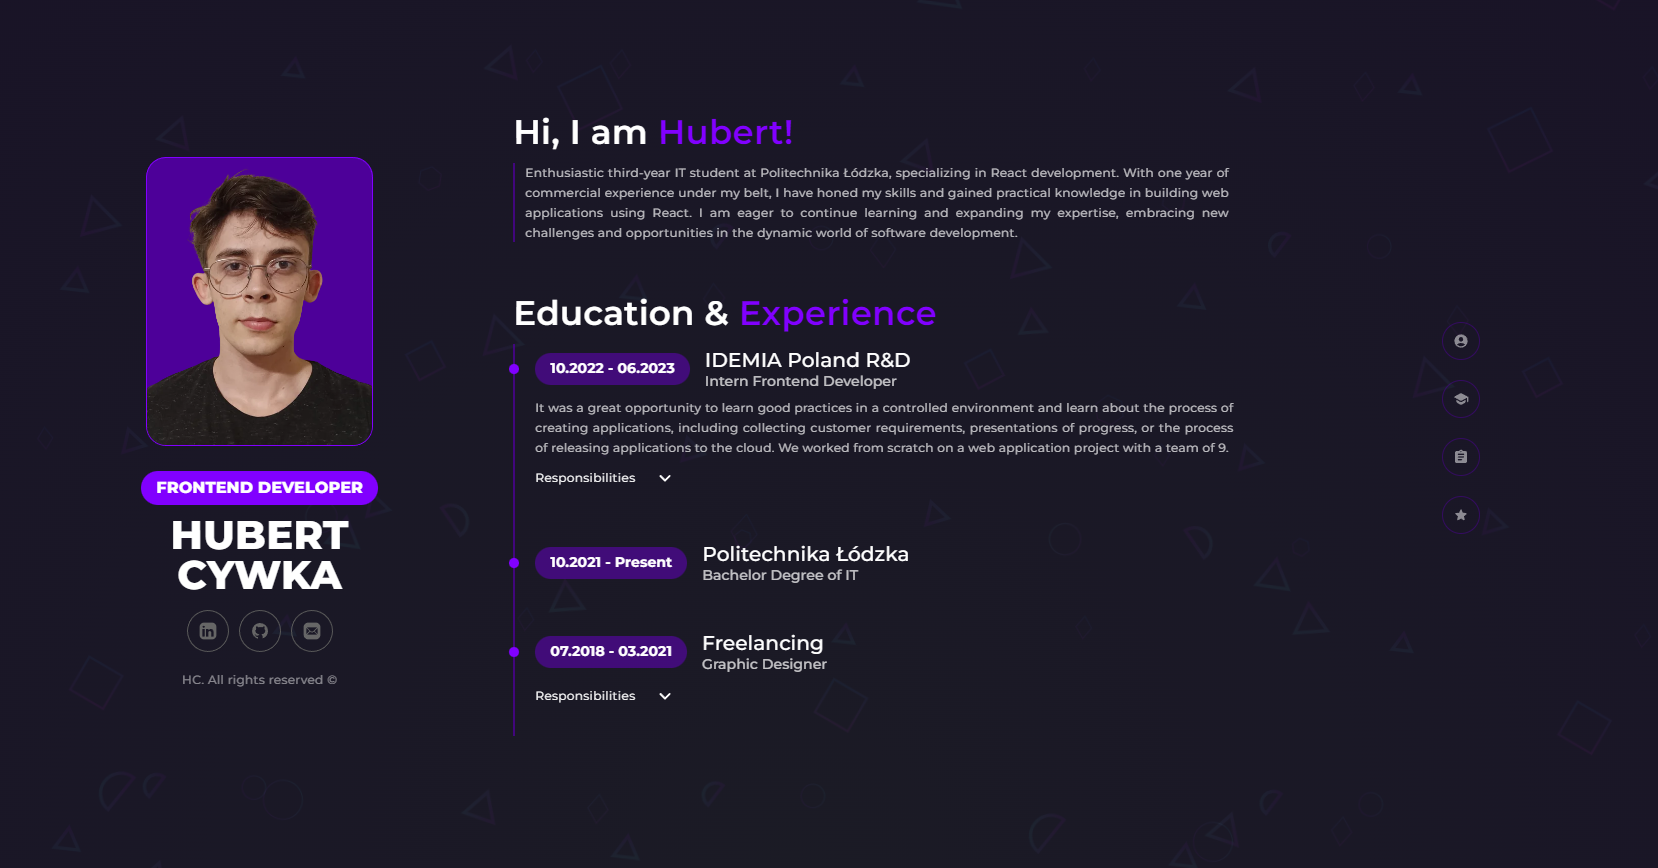
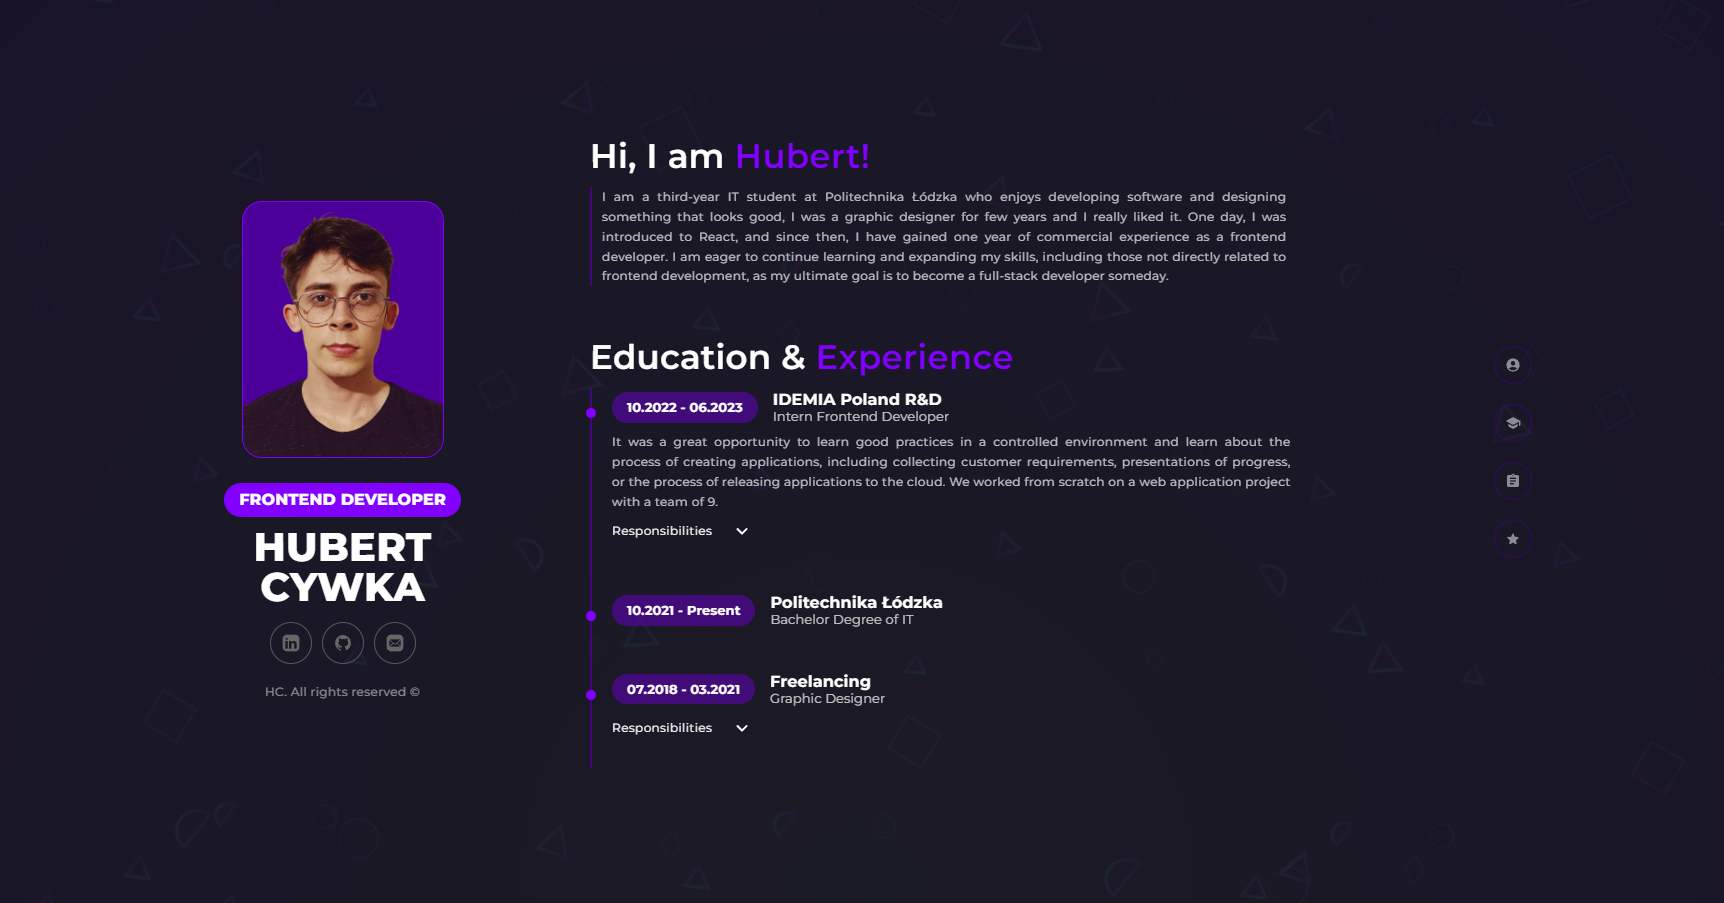
P-41: Improved font consistency

diff --git a/src/shared/constants/Me.tsx b/src/shared/constants/Me.tsx
@@ -7,5 +7,5 @@ export const ME: Developer = {
   picture: 'me.webp',
   contacts: CONTACTS,
   about:
-    'Enthusiastic third-year IT student at Politechnika Łódzka, specializing in React development. With one year of commercial experience under my belt, I have honed my skills and gained practical knowledge in building web applications using React. I am eager to continue learning and expanding my expertise, embracing new challenges and opportunities in the dynamic world of software development.'
+    'I am a third-year IT student at Politechnika Łódzka who enjoys developing software and designing something that looks good, I was a graphic designer for few years and I really liked it. One day, I was introduced to React, and since then, I have gained one year of commercial experience as a frontend developer. I am eager to continue learning and expanding my skills, including those not directly related to frontend development, as my ultimate goal is to become a full-stack developer someday.'
 };

diff --git a/src/components/content/experience/experience-list/experience-info/ExperienceInfo.tsx b/src/components/content/experience/experience-list/experience-info/ExperienceInfo.tsx
@@ -23,12 +23,8 @@ const ExperienceInfo = ({
       <Box className="experience-header">
         <Typography variant="subtitle2" className="date">{`${since} - ${to}`}</Typography>
         <Box>
-          <Typography variant="h6" className="company-name">
-            {companyName}
-          </Typography>
-          <Typography variant="subtitle2" className="position">
-            {position}
-          </Typography>
+          <Typography className="company-name">{companyName}</Typography>
+          <Typography className="position">{position}</Typography>
         </Box>
       </Box>
       {description?.length && (

diff --git a/src/components/content/experience/experience-list/experience-info/ExperienceInfo.scss b/src/components/content/experience/experience-list/experience-info/ExperienceInfo.scss
@@ -19,21 +19,25 @@
     gap: $spacing-l;
 
     .date {
+      white-space: nowrap;
       font-weight: 650;
       height: fit-content;
       transition: 0.5s;
       width: fit-content;
       display: block;
       border-radius: 50px;
+      font-size: $s-font;
       padding: $spacing-s $spacing-l;
       background: rgba($purple, 0.5);
     }
 
     .company-name {
       margin-bottom: -$spacing-s;
+      font-weight: 700;
     }
 
     .position {
+      font-size: $s-font;
       opacity: 0.75;
     }
   }

diff --git a/src/components/navigation/section-header/SectionHeader.scss b/src/components/navigation/section-header/SectionHeader.scss
@@ -13,7 +13,11 @@
   }
 
   &.extra-margin {
-    margin: $header-spacing 0 $spacing-l;
+    margin: $spacing-xxxl 0 $spacing-l;
+
+    @media (min-width: $md-breakpoint) {
+      margin: $header-spacing 0 $spacing-l;
+    }
   }
 
   :last-child {

diff --git a/src/pages/landing-page/LandingPage.scss b/src/pages/landing-page/LandingPage.scss
@@ -1,7 +1,7 @@
 @import "src/styles/constants";
 
 .landing-page-container {
-  padding: $spacing-xxl 0;
+  padding: $spacing-xxl $spacing-xl;
   overflow-x: hidden;
   box-sizing: border-box;
   position: relative;

diff --git a/src/components/content/about-developer/AboutDeveloper.scss b/src/components/content/about-developer/AboutDeveloper.scss
@@ -63,7 +63,7 @@
     }
 
     .picture {
-      max-width: 225px;
+      max-width: 200px;
       border-radius: 20px;
       border: thin solid $purple-lighter;
       background: $purple-darker;

diff --git a/src/styles/constants.scss b/src/styles/constants.scss
@@ -23,4 +23,4 @@ $spacing-xl: 20px;
 $spacing-xxl: 50px;
 $spacing-xxxl: 100px;
 
-$header-spacing: 200px;
+$header-spacing: 175px;
